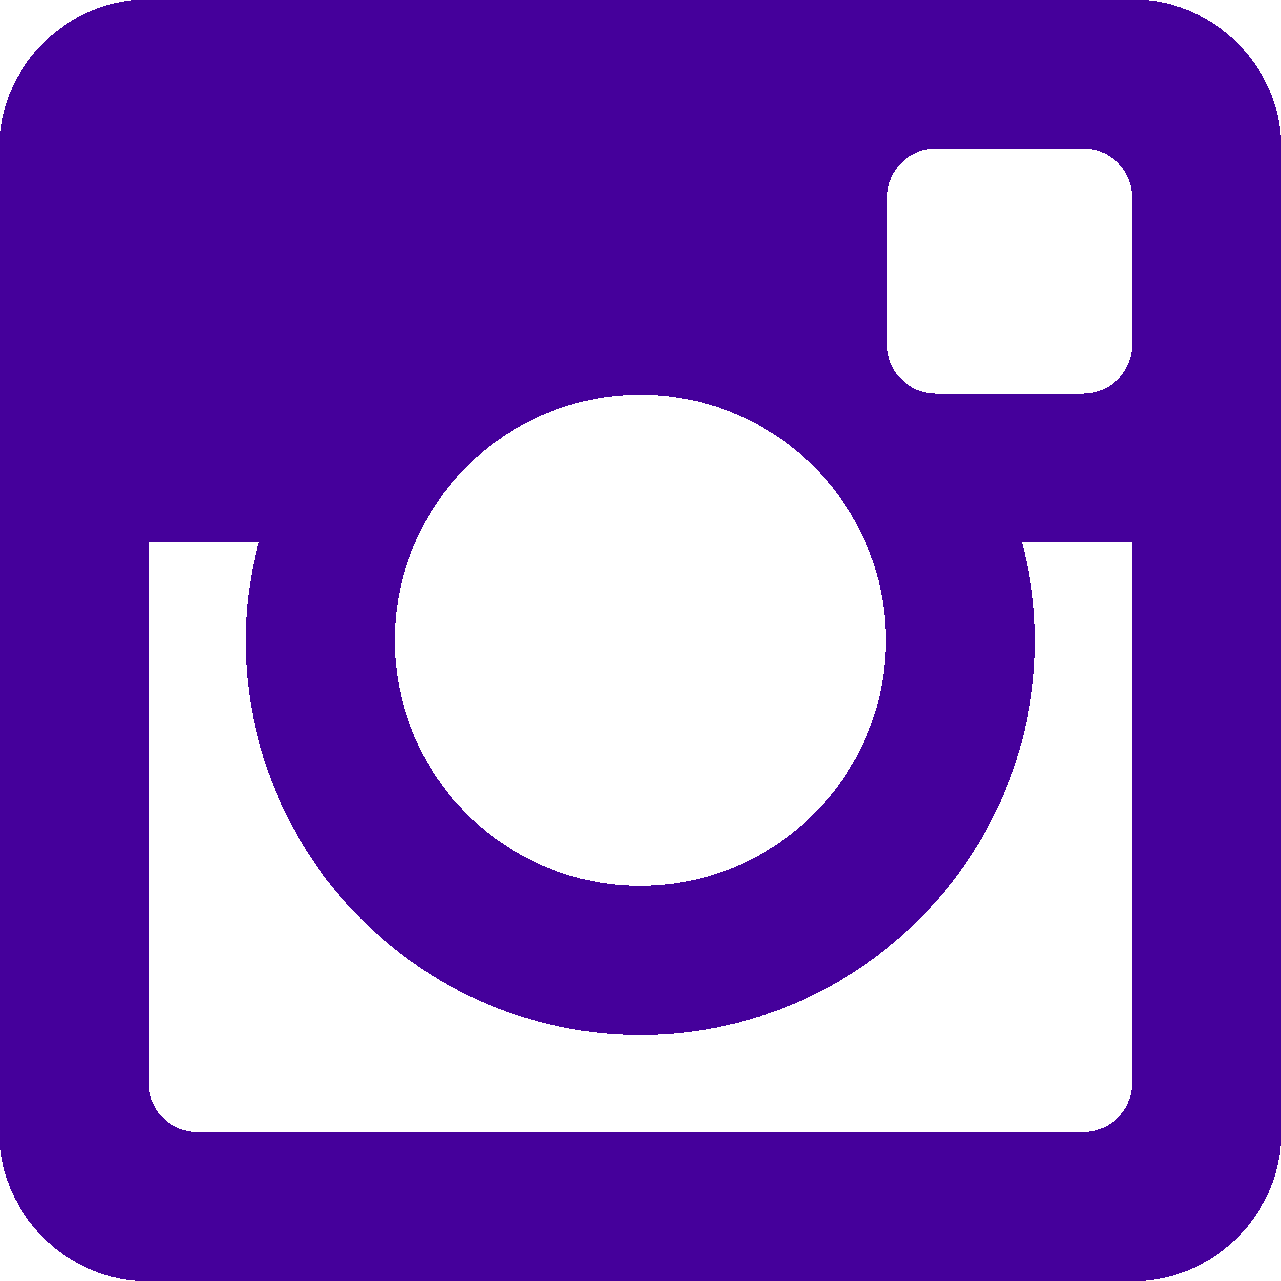
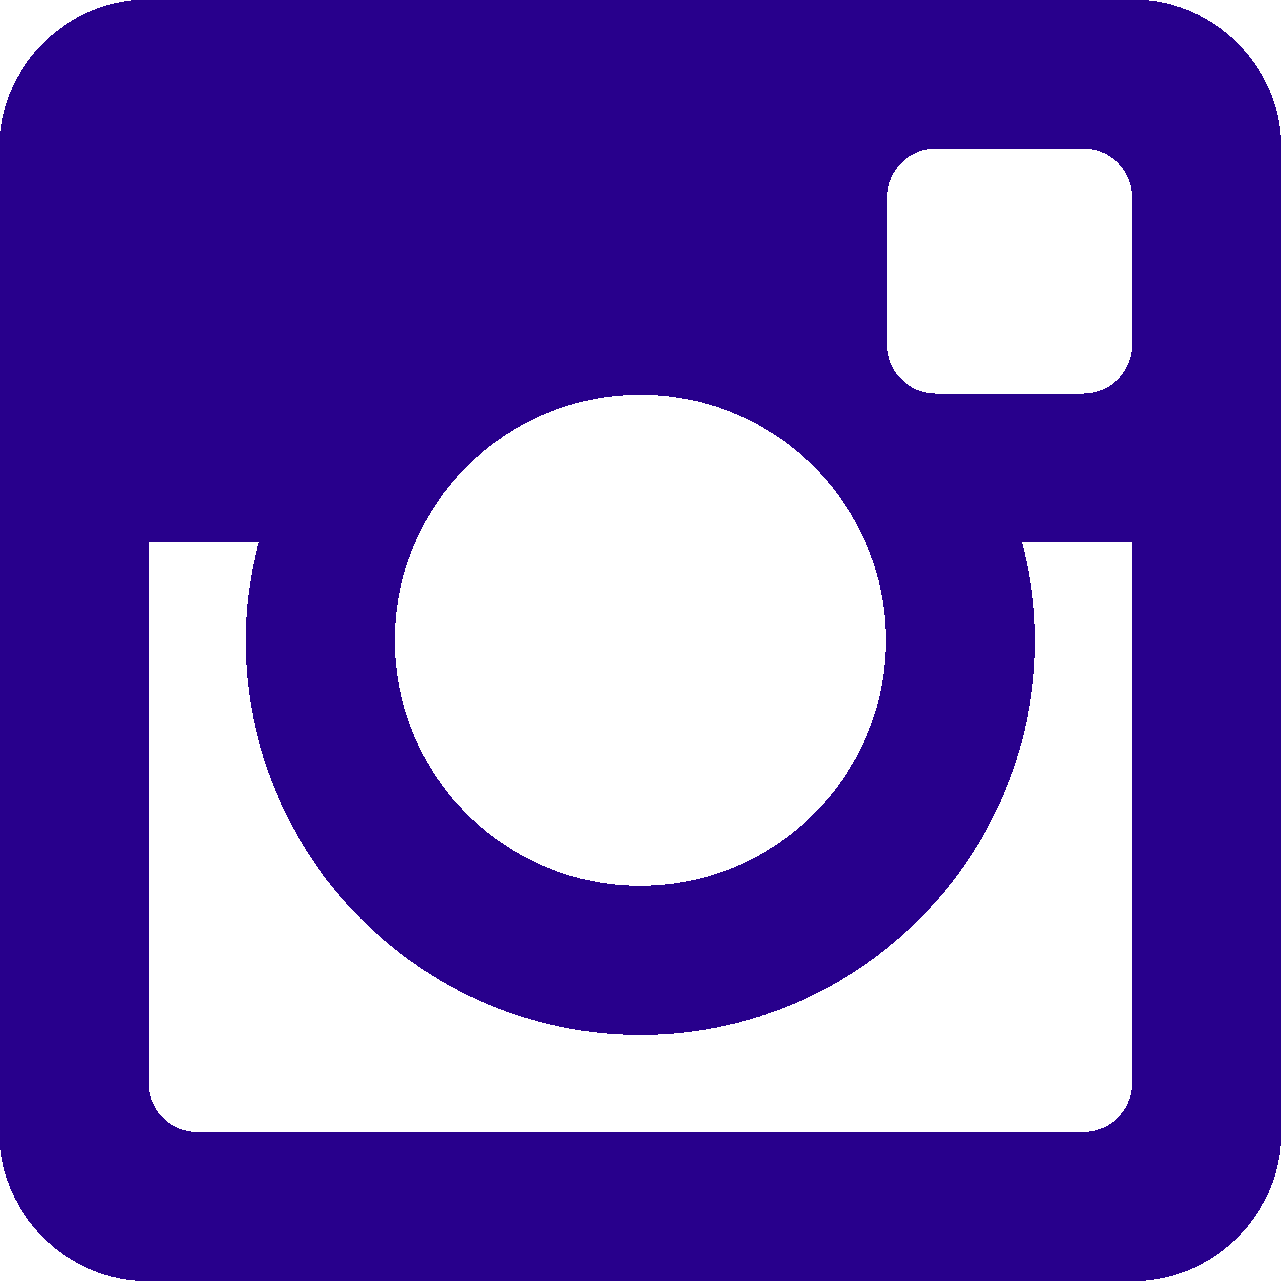
Simplified site

diff --git a/src/Pages/Home/index.js b/src/Pages/Home/index.js
@@ -48,8 +48,8 @@ const useStyles = makeStyles((theme) => ({
     },
   },
   homepageJoinMailing: {
-    color: "rgb(4,44,159)",
-    textShadow: "1px 1px rgb(255,255,255), 2px 2px rgb(4,44,159)",
+    color: "rgb(40,0,122)",
+    textShadow: "1px 1px rgb(255,255,255), 2px 2px rgb(40,0,122)",
     fontWeight: 700,
   },
   joinMailingText: {
@@ -86,24 +86,26 @@ const useStyles = makeStyles((theme) => ({
   },
   gridSocialsWrapper: {
     justifyContent: "center",
-    marginTop: 0,
+    marginTop: 40,
     zIndex: 1,
     marginBottom: 10,
   },
   linkGridItem: {
     textAlign: "center",
-
     marginTop: 10,
   },
   gridLinksWrapper: {
     marginTop: 50,
+    marginBottom: 100,
     zIndex: 1,
+    justifyContent: "center",
   },
   gridContactWrapper: {
     justifyContent: "center",
     zIndex: 1,
     textAlign: "center",
     marginBottom: 30,
+    marginTop: 20,
   },
   homepageLinkText: {
     textDecoration: "none",
@@ -117,8 +119,7 @@ const useStyles = makeStyles((theme) => ({
       fontSize: 30,
     },
   },
-  homepageLinkImage: {},
-  homepageImageButton: {},
+
   seasonOneImage: {
     width: "60%",
     height: "100%",
@@ -130,31 +131,6 @@ const useStyles = makeStyles((theme) => ({
     [theme.breakpoints.down("sm")]: {
       marginTop: 10,
     },
-  },
-  homepageImageButtonSmall: {},
-  gridRightSticker: {
-    position: "absolute",
-    left: "83%",
-    top: "60%",
-  },
-
-  homepageSlash: {
-    position: "relative",
-    left: 20,
-
-    height: 20,
-  },
-  zeferVN: { width: "83%" },
-  chooseStepperWrapper: {
-    justifyContent: "center",
-    alignItems: "flex-end",
-    marginBottom: 10,
-  },
-  characterUnlock: {
-    width: "100%",
-  },
-  dubcover: {
-    width: "100%",
   },
   pressHeader: {
     color: "rgb(4,44,159)",
@@ -172,19 +148,15 @@ export function Home() {
     setOpen(false);
   };
 
+  // get rid of roster, video & press
+  // same colour socials
+  // get rid of icons of everyone
+  //
+
   return (
     <Grid container className={styles.gridMainContentWrapper}>
       <Grid item container xs={10} className={styles.gridLinksWrapper}>
-        <Grid item container xs={12} className={styles.chooseStepperWrapper}>
-          <Grid item xs={8}>
-            <img
-              className={styles.characterUnlock}
-              alt="Season One"
-              src="/Assets/Images/characterUnlock.png"
-            />
-          </Grid>
-        </Grid>
-        <Grid item xs={12} sm={6} md={2} lg={2} className={styles.linkGridItem}>
+        <Grid item xs={12} sm={6} md={3} lg={3} className={styles.linkGridItem}>
           <a href="/releases" className={styles.homepageLinkImage}>
             <img
               className={styles.homepageImageButton}
@@ -193,25 +165,8 @@ export function Home() {
             />
           </a>
         </Grid>
-        <Grid item xs={12} sm={6} md={2} lg={2} className={styles.linkGridItem}>
-          <a href="/press" className={styles.homepageLinkImage}>
-            <img
-              className={styles.homepageImageButton}
-              alt="PRESS"
-              src="/Assets/Images/press.png"
-            />
-          </a>
-        </Grid>
-        <Grid item xs={12} sm={6} md={2} lg={2} className={styles.linkGridItem}>
-          <a href="/videos" className={styles.homepageLinkImage}>
-            <img
-              className={styles.homepageImageButton}
-              alt="VIDEOS"
-              src="/Assets/Images/videos.png"
-            />
-          </a>
-        </Grid>
-        <Grid item xs={12} sm={6} md={2} lg={2} className={styles.linkGridItem}>
+
+        <Grid item xs={12} sm={6} md={3} lg={3} className={styles.linkGridItem}>
           <a href="/events" className={styles.homepageLinkImage}>
             <img
               className={styles.homepageImageButton}
@@ -220,21 +175,12 @@ export function Home() {
             />
           </a>
         </Grid>
-        <Grid item xs={12} sm={6} md={2} lg={2} className={styles.linkGridItem}>
+        <Grid item xs={12} sm={6} md={3} lg={3} className={styles.linkGridItem}>
           <a href="/shop" className={styles.homepageLinkImage}>
             <img
               className={styles.homepageImageButton}
               alt="SHOP"
               src="/Assets/Images/shop.png"
-            />
-          </a>
-        </Grid>
-        <Grid item xs={12} sm={6} md={2} lg={2} className={styles.linkGridItem}>
-          <a href="/roster" className={styles.homepageLinkImage}>
-            <img
-              className={styles.homepageImageButton}
-              alt="ROSTER"
-              src="/Assets/Images/roster.png"
             />
           </a>
         </Grid>
@@ -293,7 +239,7 @@ export function Home() {
             href="https://soundcloud.com/steppersclub"
           >
             <img
-              src="/Assets/Images/soundcloudLogo.png"
+              src="/Assets/Images/soundcloudIcon.png"
               alt="SOUNDCLOUD"
               className={styles.socialMediaImageSoundcloud}
             />
@@ -331,27 +277,6 @@ export function Home() {
           </a>
         </Grid>
       </Grid>
-      <Hidden smUp>
-        <Dialog
-          open={open}
-          onClose={handleClose}
-          style={{ width: "100%", textAlign: "center", textDecoration: "none" }}
-        >
-          <a
-            target="_blank"
-            rel="noopener noreferrer"
-            href="https://soundcloud.com/steppersclub/sets/steppers-dubs-1"
-          >
-            <Grid item xs={12}>
-              <img
-                src="/Assets/Images/dubscover.jpg"
-                alt="SOUNDCLOUD"
-                className={styles.dubcover}
-              />
-            </Grid>
-          </a>
-        </Dialog>
-      </Hidden>
     </Grid>
   );
 }

diff --git a/src/Pages/Home/emailCapture.js b/src/Pages/Home/emailCapture.js
@@ -173,10 +173,10 @@ function emailHTMLContent() {
             font-weight: 600;
         }
         ::placeholder {
-            color: rgb(4,44,159);
+            color: rgb(40,0,122);
             opacity: 1; 
             text-align: center;
-            text-shadow: 1px 1px rgb(255,255,255), 2px 2px rgb(4,44,159);
+            text-shadow: 1px 1px rgb(255,255,255), 2px 2px rgb(40,0,122);
             font-size: 20;
             font-weight: 600;
         }
@@ -222,8 +222,8 @@ function emailHTMLContent() {
                 </span>
             </label>
             <div id="cid_3" class="form-input-wide jf-required">
-                <input type="text" id="input_3" name="q3_input3" class="emailtextinput validate[required, Email]" style="color: rgb(4,44,159); outline: none; font-size: 20px; height: 50px; border-style:solid; background-color: white; border-width: 0 0 2px; border-color: rgb(4,44,159);" size="30"  placeholder="EMAIL" data-component="email" aria-labelledby="label_3"  />
-                <button id="input_2" class="submitbutton" type="submit" style="font-size: 25px; color: rgb(4,44,159); font-weight: 900; background-color: white; border: none;" data-component="button" data-content="">
+                <input type="text" id="input_3" name="q3_input3" class="emailtextinput validate[required, Email]" style="color: rgb(40,0,122); text-align:center; outline: none; font-size: 20px; height: 50px; border-style:solid; background-color: white; border-width: 0 0 2px; border-color: rgb(40,0,122);" size="30"  placeholder="EMAIL" data-component="email" aria-labelledby="label_3"  />
+                <button id="input_2" class="submitbutton" type="submit" style="font-size: 25px; color: rgb(40,0,122); font-weight: 900; background-color: white; border: none;" data-component="button" data-content="">
                     >
                 </button>
             </div>

diff --git a/src/Pages/LogoMain/index.js b/src/Pages/LogoMain/index.js
@@ -5,14 +5,14 @@ import Grid from "@material-ui/core/Grid";
 const useStyles = makeStyles((theme) => ({
   gridMainContentWrapper: {
     width: "100%",
-    marginBottom: -50,
+    marginBottom: -100,
     direction: "column",
     flexGrow: "column",
     justifyContent: "center",
     alignItems: "center",
     alignContent: "center",
     justifyItems: "center",
-    marginTop: 50,
+    marginTop: 0,
   },
   gridItemWrapper: {
     marginLeft: "-25%",
@@ -20,7 +20,7 @@ const useStyles = makeStyles((theme) => ({
   logoImage: {
     zIndex: 5,
     position: "relative",
-    width: "100%",
+    width: "150%",
     marginLeft: "-20%",
     // [theme.breakpoints.down("sm")]: {
     //   width: "100%",
@@ -76,7 +76,7 @@ const useStyles = makeStyles((theme) => ({
     },
   },
   logoNameImage: {
-    width: "100%",
+    width: "140%",
     marginLeft: "-5%",
     marginTop: "-5%",
     zIndex: 100,
@@ -89,16 +89,27 @@ export function LogoMain() {
 
   return (
     <Grid item container className={styles.gridMainContentWrapper}>
-      <Grid item xs={8}>
+      <Grid item xs={8} style={{ display: "flex", flexDirection: "row" }}>
         <a
           href="/"
           onMouseEnter={() => setShowText(true)}
           onMouseLeave={() => setShowText(false)}
         >
           <img
-            src="/Assets/Images/Banner.png"
+            src="/Assets/Images/logoText.png"
             alt="Steppers Club Logo"
             className={styles.logoNameImage}
+          />
+        </a>
+        <a
+          href="/"
+          onMouseEnter={() => setShowText(true)}
+          onMouseLeave={() => setShowText(false)}
+        >
+          <img
+            src="/Assets/Images/logo.png"
+            alt="Steppers Club Logo"
+            className={styles.logoImage}
           />
         </a>
         {/* <div

diff --git a/src/Layout/index.js b/src/Layout/index.js
@@ -84,28 +84,6 @@ export const Layout = (props) => {
   const styles = useStyles();
   return (
     <Grid container className={styles.gridContentWrapper}>
-      <Hidden smDown>
-        <div className={styles.popupWrapper}>
-          <Slide direction="left" in={true} timeout={550}>
-            <Grid className={styles.popup}>
-              <a
-                target="_blank"
-                rel="noopener noreferrer"
-                href="https://soundcloud.com/steppersclub/sets/steppers-dubs-1"
-              >
-                <Grid item xs={12}>
-                  <img
-                    src="/Assets/Images/dubscover.jpg"
-                    alt="SOUNDCLOUD"
-                    className={styles.socialMediaImageSoundcloud}
-                  />
-                </Grid>
-              </a>
-            </Grid>
-          </Slide>
-        </div>
-      </Hidden>
-
       <Grid item container xs={12} className={styles.staticGrid}></Grid>
       <Grid
         item

diff --git a/src/Pages/Releases/index.js b/src/Pages/Releases/index.js
@@ -37,8 +37,8 @@ const useStyles = makeStyles((theme) => ({
     justifyContent: "center",
     textAlign: "center",
     fontSize: 30,
-    color: "rgb(4,44,159)",
-    textShadow: "1px 1px rgb(255,255,255), 2px 2px rgb(4,44,159)",
+    color: "rgb(40,0,122)",
+    textShadow: "1px 1px rgb(255,255,255), 2px 2px rgb(40,0,122)",
     fontWeight: 700,
     marginTop: 30,
     marginBottom: 15,
@@ -47,8 +47,8 @@ const useStyles = makeStyles((theme) => ({
     justifyContent: "center",
   },
   releasesHeader: {
-    color: "rgb(4,44,159)",
-    textShadow: "1px 1px rgb(255,255,255), 2px 2px rgb(4,44,159)",
+    color: "rgb(40,0,122)",
+    textShadow: "1px 1px rgb(255,255,255), 2px 2px rgb(40,0,122)",
     fontWeight: 700,
   },
   socialMediaImageAppleMusic: {

diff --git a/src/Pages/Events/index.js b/src/Pages/Events/index.js
@@ -16,16 +16,16 @@ const useStyles = makeStyles((theme) => ({
   },
   gridItemWrapper: {},
   eventsComingSoonText: {
-    color: "rgb(4,44,159)",
-    textShadow: "1px 1px rgb(255,255,255), 2px 2px rgb(4,44,159)",
+    color: "rgb(40,0,122)",
+    textShadow: "1px 1px rgb(255,255,255), 2px 2px rgb(40,0,122)",
     fontWeight: 700,
   },
   eventsComingSoonWrapper: {
     textAlign: "center",
   },
   eventsHeader: {
-    color: "rgb(4,44,159)",
-    textShadow: "1px 1px rgb(255,255,255), 2px 2px rgb(4,44,159)",
+    color: "rgb(40,0,122)",
+    textShadow: "1px 1px rgb(255,255,255), 2px 2px rgb(40,0,122)",
     fontWeight: 700,
   },
 }));

diff --git a/src/Pages/Contact/index.js b/src/Pages/Contact/index.js
@@ -16,15 +16,15 @@ const useStyles = makeStyles((theme) => ({
   },
   gridItemWrapper: {},
   shopComingSoonText: {
-    color: "rgb(4,44,159)",
-    textShadow: "1px 1px rgb(255,255,255), 2px 2px rgb(4,44,159)",
+    color: "rgb(40,0,122)",
+    textShadow: "1px 1px rgb(255,255,255), 2px 2px rgb(40,0,122)",
     fontWeight: 700,
   },
   contactComingSoonWrapper: {
     textAlign: "center",
   },
   contactEmailLink: {
-    color: "rgb(4,44,159)",
+    color: "rgb(40,0,122)",
     textShadow: "1px 1px rgb(255,255,255)",
     fontWeight: 700,
     fontSize: 30,
